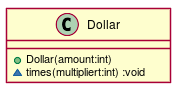
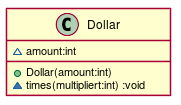
第１章 仮実装 Step7

diff --git a/src/test/java/tdd/money/MoneyTest.java b/src/test/java/tdd/money/MoneyTest.java
@@ -7,7 +7,7 @@ public class MoneyTest {
     @Test
     public void testMultiplication() {
         Dollar five = new Dollar(5);
-        five.time(2);
+        five.times(2);
         assertEquals(10, five.amount);
     }
 }

diff --git a/src/main/java/tdd/money/Dollar.java b/src/main/java/tdd/money/Dollar.java
@@ -1,6 +1,7 @@
 package tdd.money;
 
 public class Dollar {
+    int amount;
     Dollar(int amount){
     }
     void times(int multiplier) {

diff --git a/docs/TDD.md b/docs/TDD.md
@@ -48,7 +48,7 @@
 ### クラス図
   
 
-![](assets/7c580b1af72c869ebe79e0b497e0cac00.png?0.7485503197306667)  
+![](./assets/7c580b1af72c869ebe79e0b497e0cac00.png?0.05249960029668754)  
 ### シーケンス図
   
   
@@ -66,7 +66,7 @@ public class MoneyTest {
     @Test
     public void testMultiplication() {
         Dollar five = new Dollar(5);
-        five.time(2);
+        five.times(2);
         assertEquals(10, five.amount);
     }
 }
@@ -78,6 +78,7 @@ public class MoneyTest {
 package tdd.money;
   
 public class Dollar {
+    int amount;
     Dollar(int amount){
     }
     void times(int multiplier) {

diff --git a/docs/src/TDD.md b/docs/src/TDD.md
@@ -1,6 +1,6 @@
 ---
 markdown:
-  image_dir: ./assets
+  image_dir: ../assets
   path: ../TDD.md
   ignore_from_front_matter: true
   absolute_image_path: false
@@ -50,6 +50,7 @@ markdown:
 ### クラス図
 ```puml
 class Dollar {
+  ~amount:int
   +Dollar(amount:int)
   ~times(multipliert:int) :void
 }
